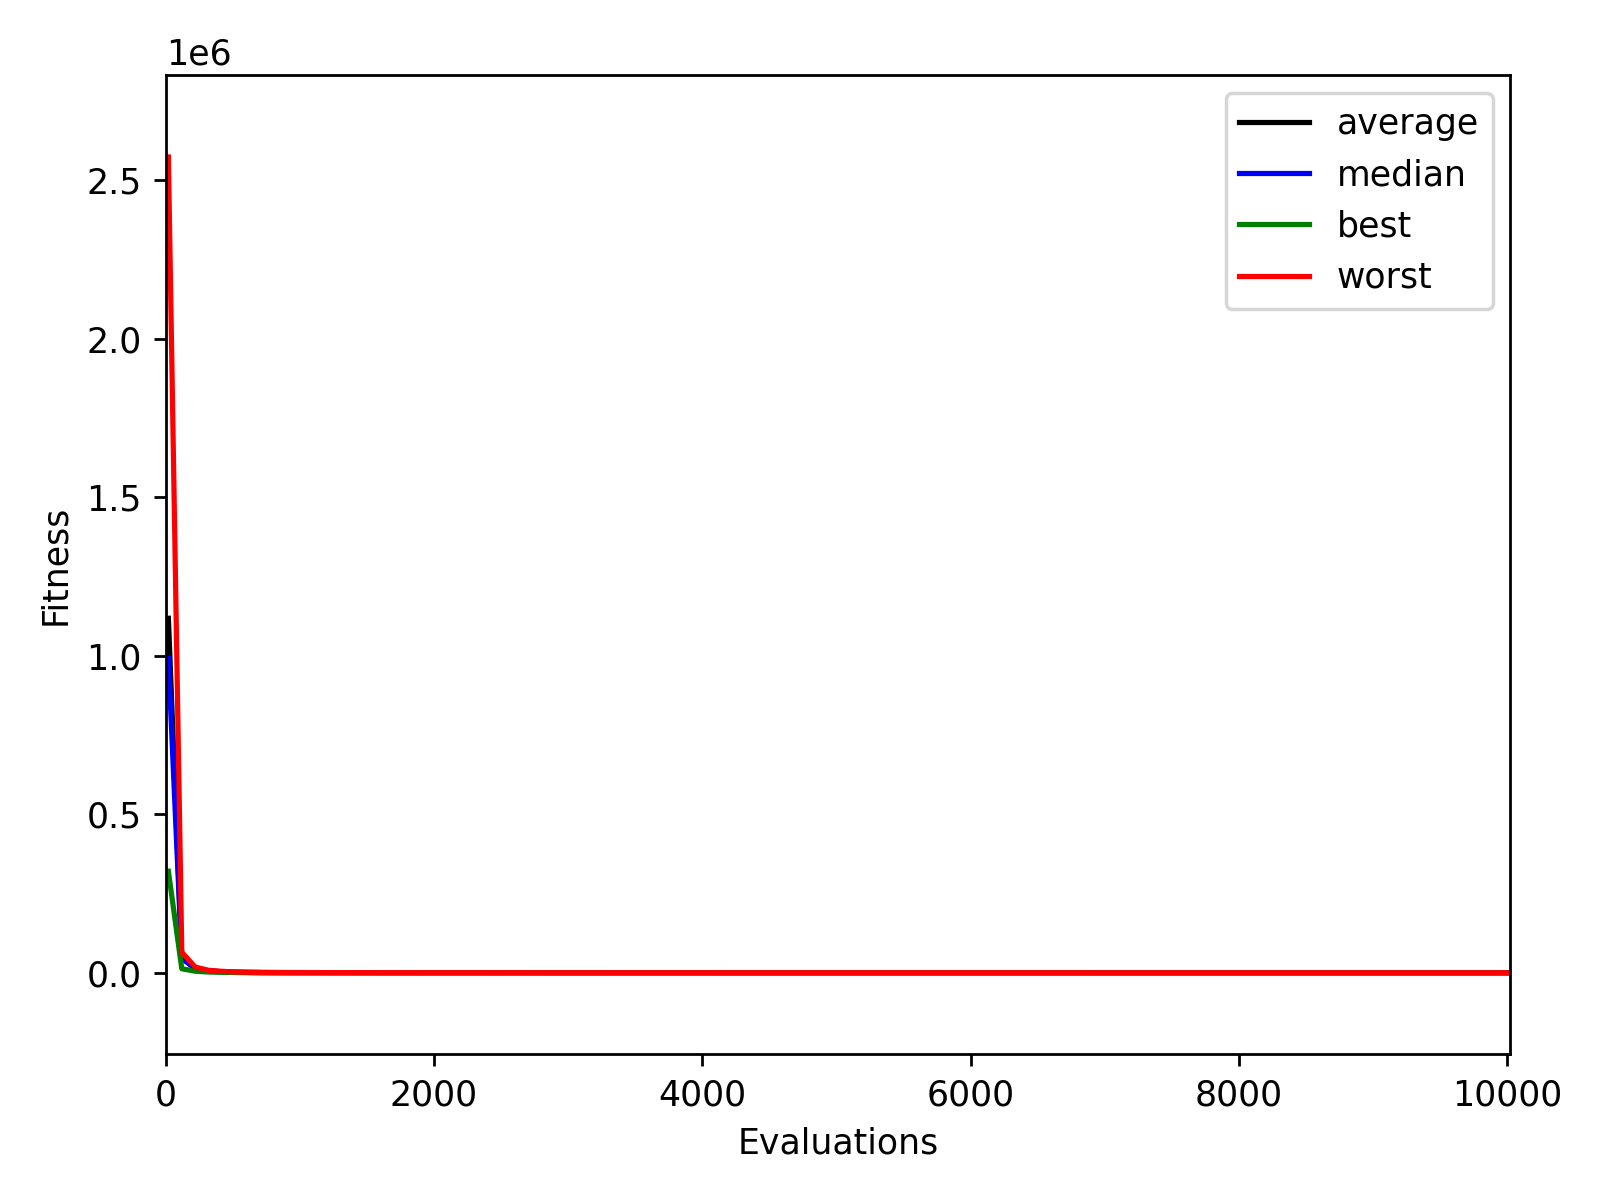
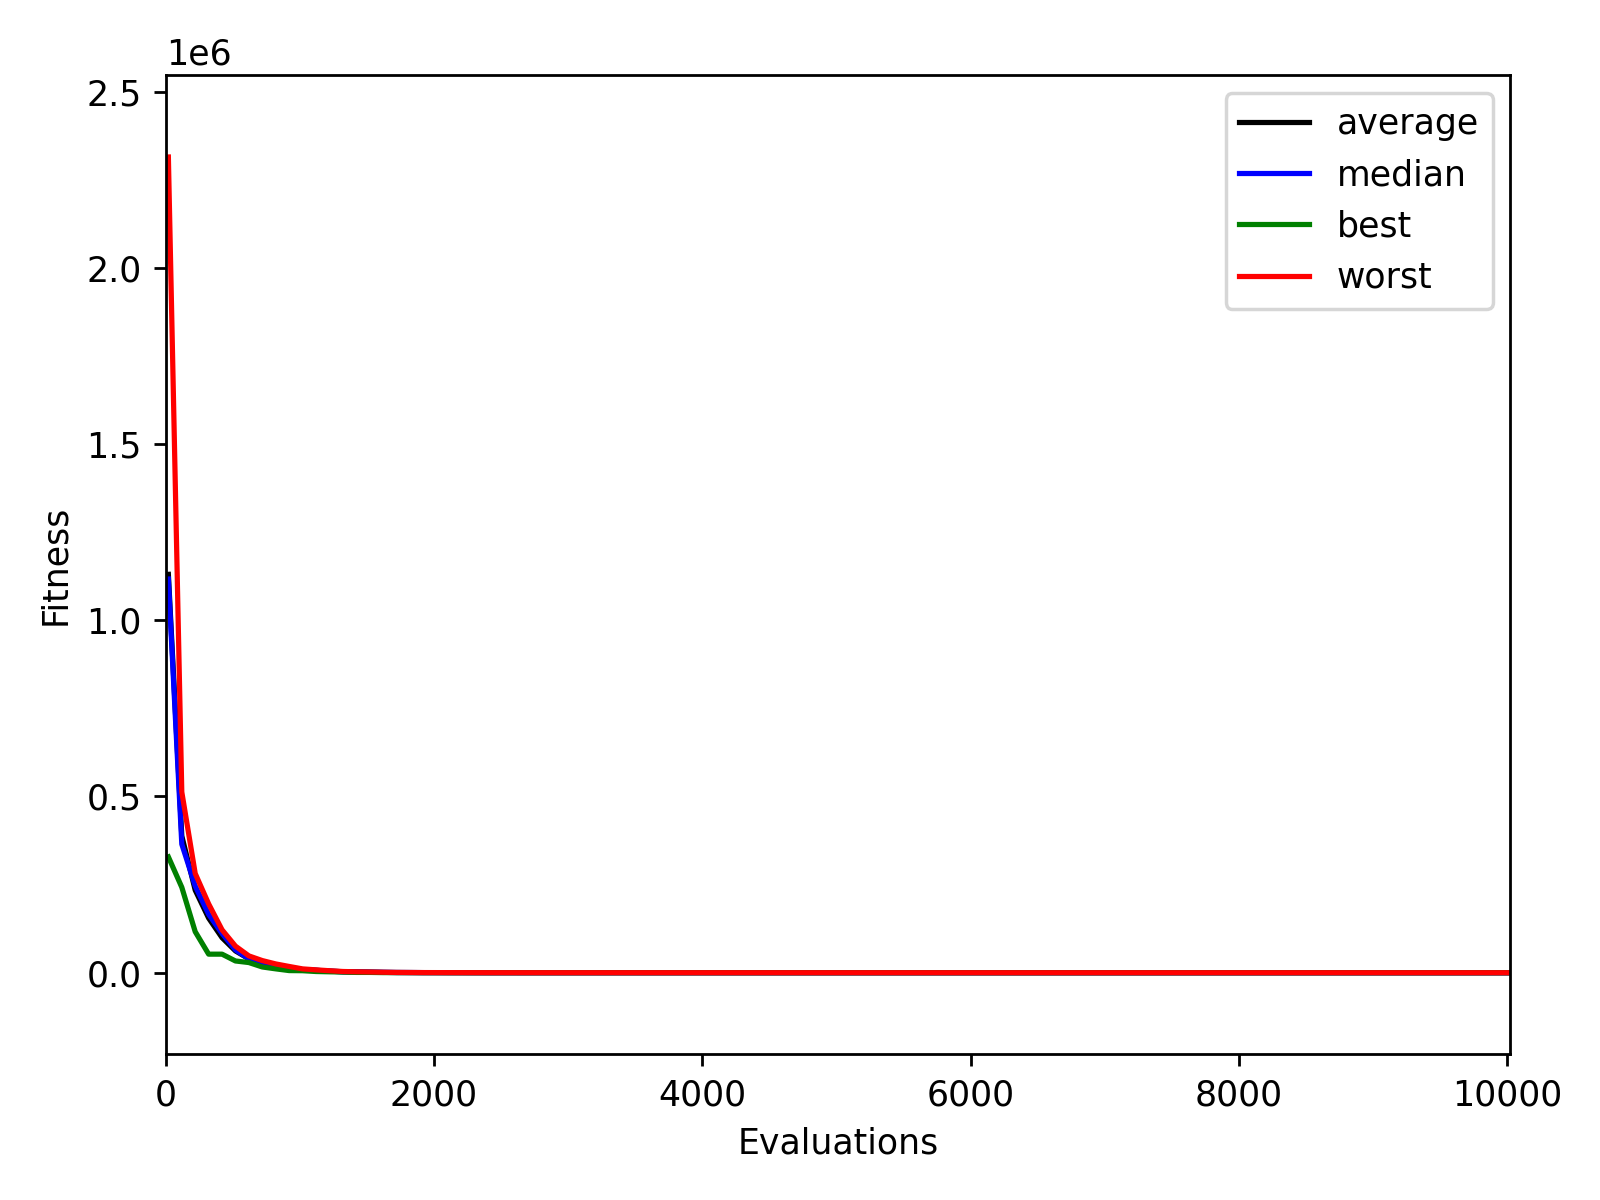
Continued work

diff --git a/bio_inspired_ai/lab03/exercise_1.py b/bio_inspired_ai/lab03/exercise_1.py
@@ -31,8 +31,8 @@ args["strategy_mode"] = None
 #args["strategy_mode"] = es.GLOBAL
 #args["strategy_mode"] = es.INDIVIDUAL
 
-#args["mixing_number"] = 1 #rho
-args["mixing_number"] = 5
+args["mixing_number"] = 1 #rho
+#args["mixing_number"] = 5
 
 #args["problem_class"] = benchmarks.Sphere
 args["problem_class"] = benchmarks.Rosenbrock
@@ -46,6 +46,8 @@ args["fig_title"] = 'ES'
 
 def run(args, show=True):
     
+    args["max_generations"] = 10000 // args["num_offspring"] 
+
     if len(sys.argv) > 1 :
         rng = NumpyRandomWrapper(int(sys.argv[1]))
     else :
@@ -68,9 +70,9 @@ def run(args, show=True):
     return {'best_fitness': best_fitness}
 
 run_benchmark(run, 'results/es1', args, {
-        'num_offspring': [20, 100, 200],
-        'mixing_number': [1, 5, 10],
+        'num_offspring': [100],
+        'mixing_number': [1, 2, 5],
         'strategy_mode': [None, es.GLOBAL, es.INDIVIDUAL]
     }, 
     problems=[benchmarks.Rosenbrock], # benchmarks.Sphere, benchmarks.Rastrigin 
-    combine=False)
+    combine=True)

diff --git a/bio_inspired_ai/lab03/exercise_2.py b/bio_inspired_ai/lab03/exercise_2.py
@@ -46,6 +46,8 @@ args["fig_title"] = 'ES'
 
 def run(args, show=True):
     
+    args["max_generations"] = 10000 // args["num_offspring"] 
+
     if len(sys.argv) > 1 :
         rng = NumpyRandomWrapper(int(sys.argv[1]))
     else :
@@ -79,8 +81,8 @@ def run(args, show=True):
     return { f'best_fitness_{mode}': max(best_fitnesses[i]) for i, mode in enumerate(strategy_modes)}
 
 run_benchmark(run, 'results/es2', args, {
-        'num_offspring': [20, 100, 200],
-        'mixing_number': [1, 5]
+        'num_offspring': [100],
+        'mixing_number': [1, 2, 5, 10]
     }, 
     problems=[benchmarks.Rosenbrock], # benchmarks.Sphere, benchmarks.Rastrigin 
     combine=False)

diff --git a/bio_inspired_ai/benchmark/__init__.py b/bio_inspired_ai/benchmark/__init__.py
@@ -30,7 +30,8 @@ def run_benchmark(run_function, output_path, initial_args, custom_args, problems
         # Test problems
         for problem in problems:
             # Run function
-            ret = run_function({**args, 'problem_class': problem}, show=False)
+            args['problem_class'] = problem
+            ret = run_function(args, show=False)
             result = {**result, **{f'{k}_{problem.__name__.lower()}': v.round(ROUND_RESULTS) for k, v in ret.items()} }
             plt.tight_layout()
             plt.savefig(f'{output_path}/img{i}_{problem.__name__.lower()}.png', dpi=250)

diff --git a/bio_inspired_ai/notes.md b/bio_inspired_ai/notes.md
@@ -8,20 +8,21 @@
 
 ### Exercise 1
 - **What happens if you make λ smaller e.g. λ = μ?** \
-By decreasing λ we obtain an overall better (i.e. lower) fitness value and the convergence speed is faster.
+By decreasing λ (and maintaining the number of evaluations constant by increasing the "max_generations" param accordingly) we obtain a faster convergence speed, while the results in the long run remain quite stable across the different values of λ.
 
 - **What happens if you increase the mixing number ρ?** \
-By increasing the mixing number ρ, the overall fitness is better (lower) and the convergence speed is faster.
+By increasing the mixing number ρ, the overall fitness is better (lower) and the convergence speed is much faster. This is probably because we are using more parents, increasing the variability of the generated offspring.
 
 - **Try out the different strategy modes and observe how they affect the performance of the algorithm** \
-The results shows that with a ρ=1, between None, Global and Individual, Global gives the better results. However, if we increase the value of ρ, e.g. ρ=5, the Individual strategy obtain the best performance overall.
+The results changes based on the value of ρ. With a ρ=1, between None (no self-adaptation), Global and Individual strategies, Global gives the better results by a factor of 50 w.r.t. the Individual strategy. However, if we increase the value of ρ s.t. ρ>1, e.g. ρ=5, the Individual strategy obtain the best performances overall, by a factor of 10 w.r.t. the Global, while the performance of the None strategy are far behind (fitness = ~143 against ~0.02 of Individual). 
 
 ### Exercise 2
 
 - **How does the self-adaptation strategy influence performance on this problem?** \
-As mentioned before, None, Global and Individual obtain increasingly better results (in this order) with a ρ=5.
+As mentioned before, None, Global and Individual obtain increasingly better results (in this order) with a ρ>1.
 
 - **Does what you see here confirm what you suspected from the previous exercise?** \
+Yes
 
 - **How do the values of μ, ρ, and λ influence the performance given a particular self-adaptation strategy and other parameters?** \
 
@@ -31,4 +32,18 @@ As mentioned before, None, Global and Individual obtain increasingly better resu
 
 ### Exercise 3
 
+- **Can CMA-ES find optima to different problems with fewer function evaluations?** \
+
+- **How do these differences change with different pop. sizes and problem dimensions?** \
+
 ### Questions
+- **Do the observations you made while varying μ, ρ, and λ confirm or contradict the conclusions you drew last week?** \
+
+- **What are the advantages of self-adaptation in evolutionary computation?** \
+
+- **In what ways might self-adaptation be occurring in biological organisms?** \
+
+- **Compare the different self-adaptation strategies explored in this exercise. In what ways are certain strategies better than others for optimization? In what ways are certain strategies more biologically plausible than others?** \
+
+- **Describe what reasons may contribute to better performance of CMA-ES and what can be the conditions when CMA-ES is not better than a basic ES.** \
+
